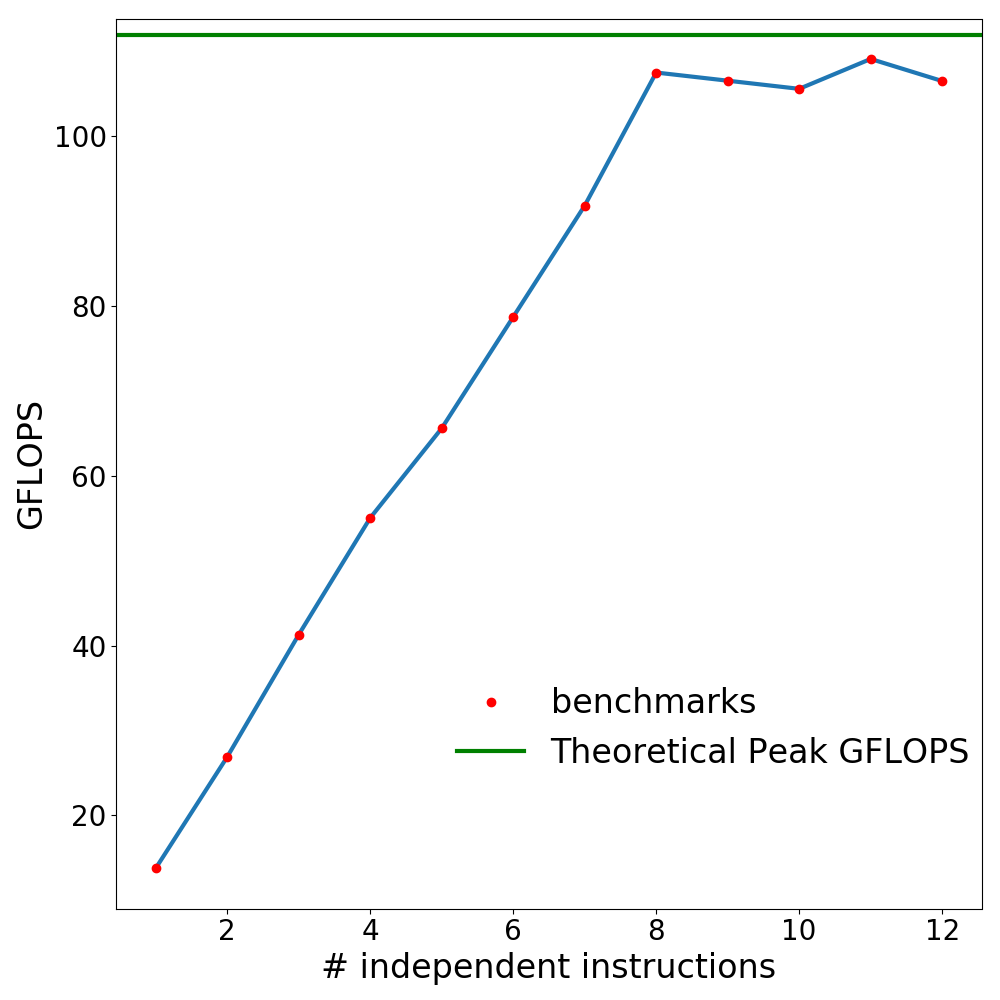
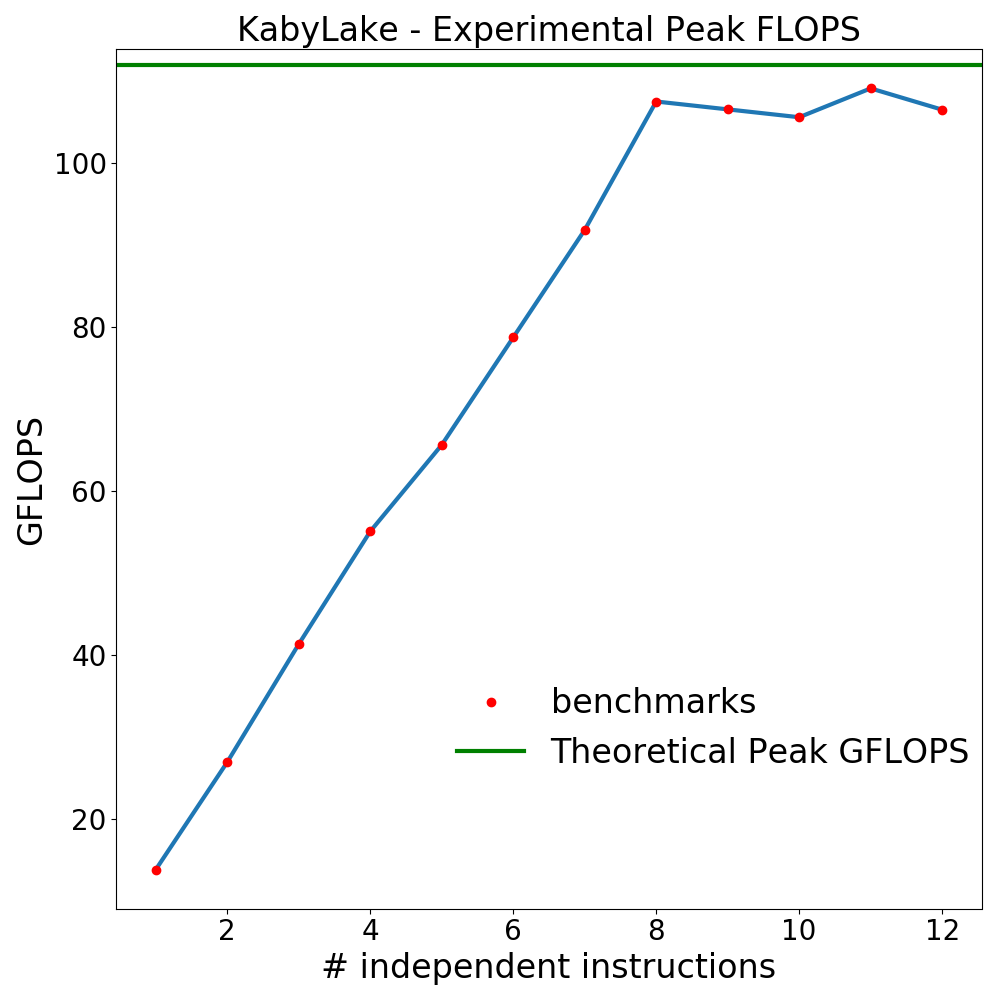
plot

diff --git a/test_flops.cc b/test_flops.cc
@@ -515,7 +515,7 @@ struct benchmark_1 : benchmark
     }
 };
 
-void bench_kernel(const benchmark &bench)
+float bench_kernel(const benchmark &bench)
 {
     double seconds = 1;
     int m_block_size = 10000000;
@@ -535,14 +535,16 @@ void bench_kernel(const benchmark &bench)
     while (clock < duration);
 
     double flops = iterations * m_flops_per_iteration * m_block_size / seconds;
+    double gflops = flops / 1000000000;
     std::cout << "\n";
     std::cout << "Ind Instructions: " << bench.get_independent_instructions() << std::endl;
     std::cout << "Iterations:       " << iterations << std::endl;
     std::cout << "Blocksize:        " << m_block_size << std::endl;
     std::cout << "m_flops_per_iter: " << m_flops_per_iteration << std::endl;
-    std::cout << "GFlops:           " << flops / 1000000000 << std::endl;
+    std::cout << "GFlops:           " << gflops << std::endl;
     std::cout << "Flops:            " << flops << std::endl;
     std::cout << "SUM:              " << sum << std::endl;
+    return gflops;
 
 }
 

diff --git a/plot.py b/plot.py
@@ -11,10 +11,6 @@ bbox_to_anchor = (1, 0.2)
 axis_label_fontsize = 24
 
 
-iterations = [43, 43, 43, 43,
-              44, 43, 42, 41,
-              36, 32, 29, 26]
-
 gflops = [13.76, 26.88, 41.28, 55.04,
           65.6, 78.72, 91.84, 107.52,
           106.56, 105.6, 109.12, 106.52]
@@ -38,6 +34,8 @@ if __name__ == "__main__":
                fontsize=legend_fontsize,
                bbox_to_anchor=bbox_to_anchor
                )
+    ax.set_title("KabyLake - Experimental Peak FLOPS",
+                 fontsize=legend_fontsize)
     fig.tight_layout()
     fig.savefig("peak_flops.png")
     # plt.show()

diff --git a/peak_flops.cc b/peak_flops.cc
@@ -219,7 +219,3 @@ int main(int argc, char* argv[])
     std::cout << "Flops:            " << flops << std::endl;
     std::cout << "GFlops:           " << flops / 1000000000 << std::endl;
 }
-
-/*
-
-*/
